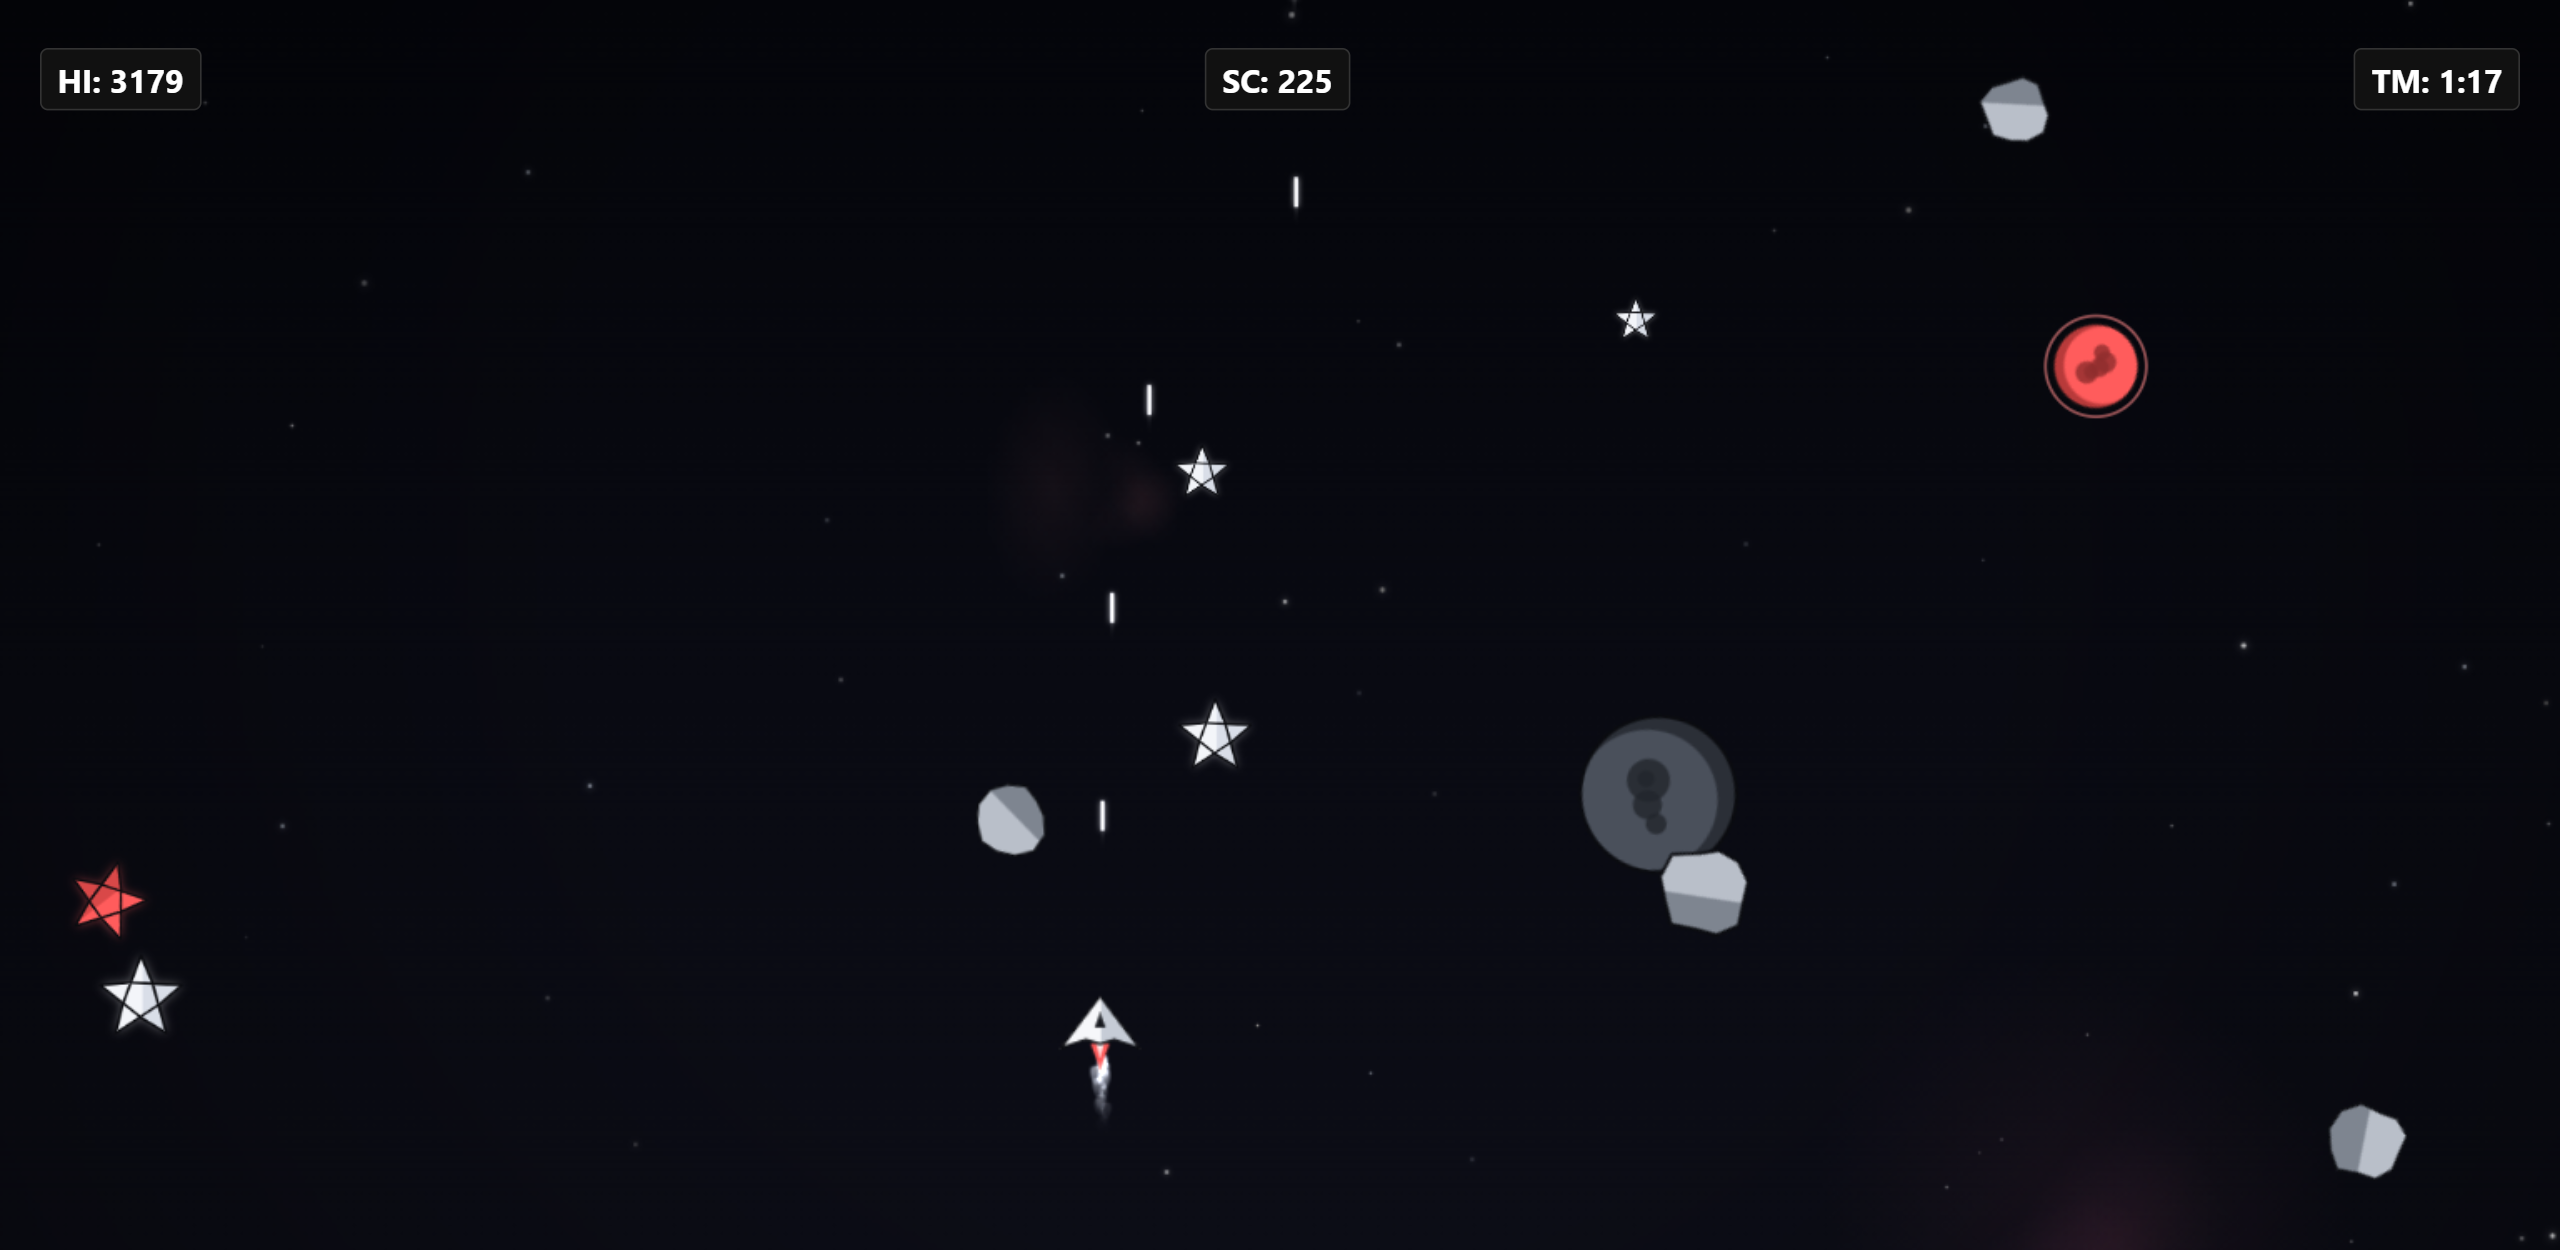
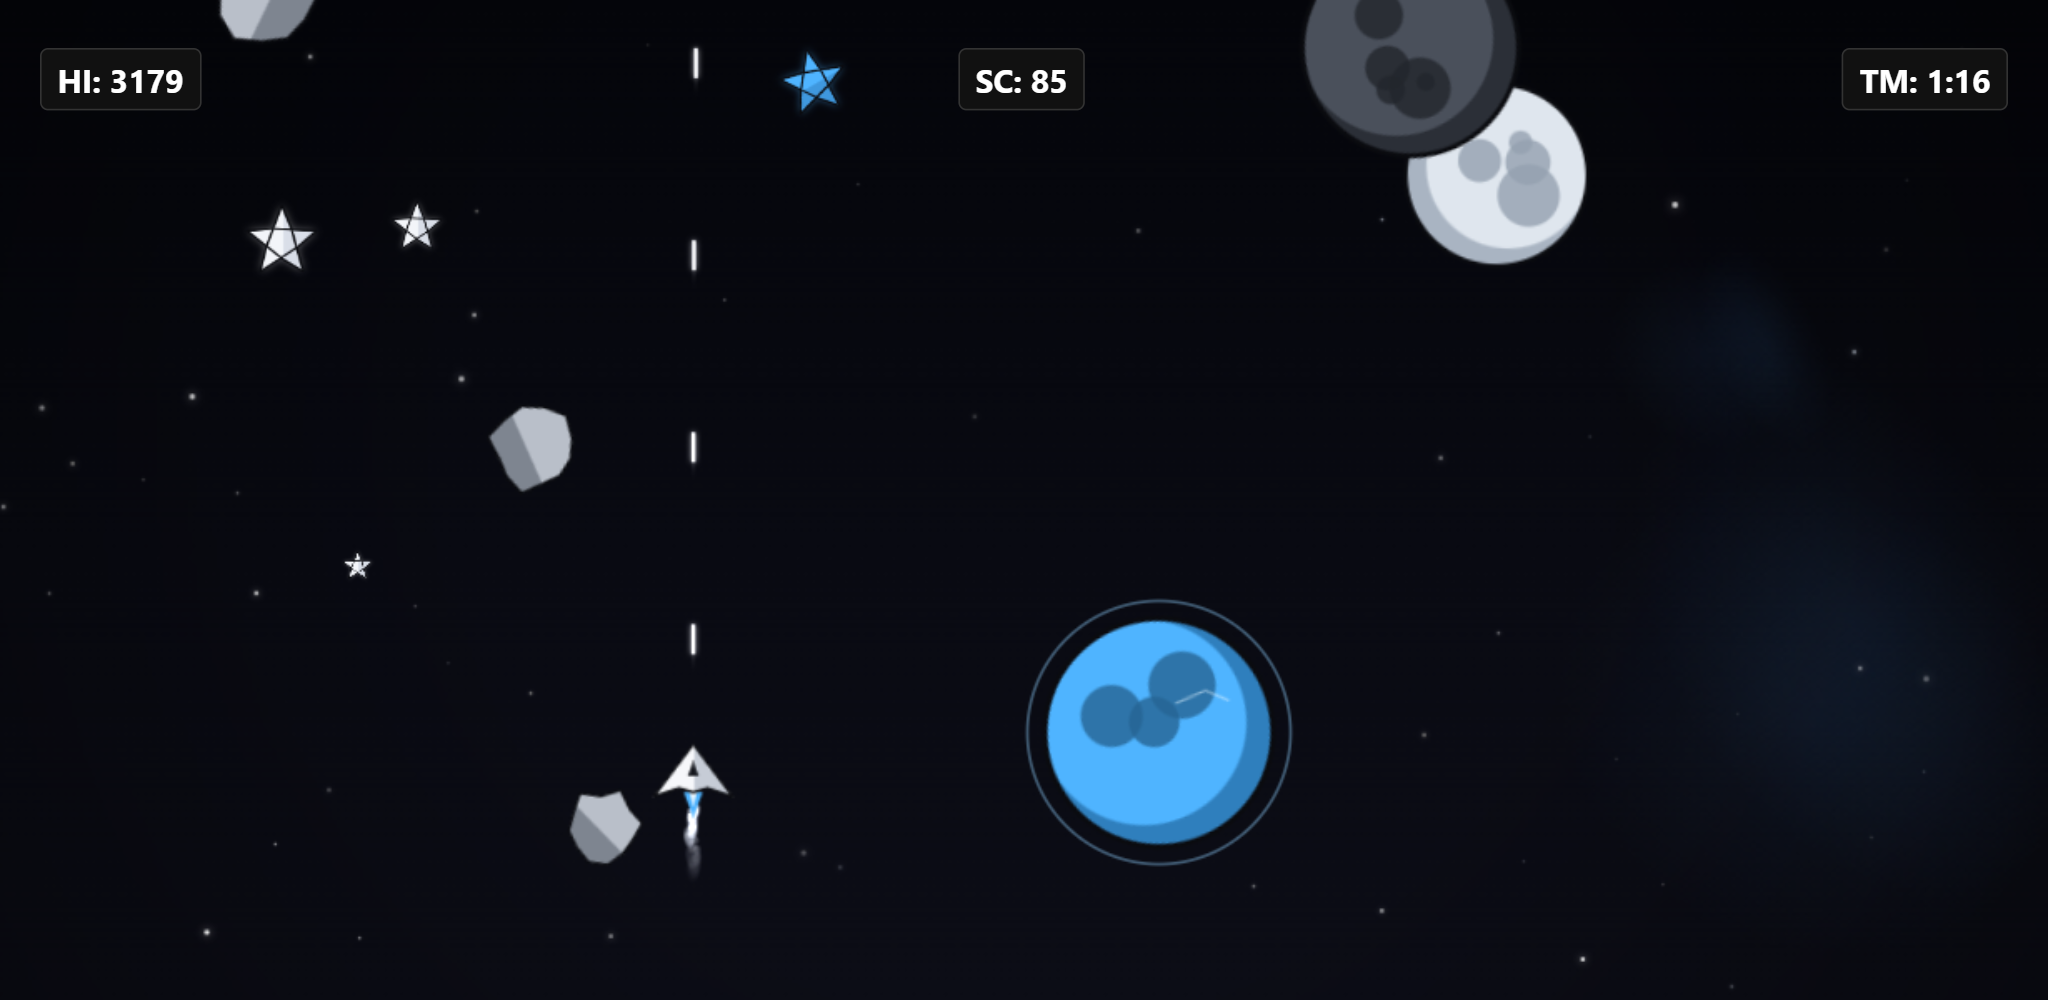
build: record an autopilot run as MP4 for the store listing
record-autoplay.cjs drives the DevTools screencast through the title, run,
debrief and leaderboard and encodes a constant-frame-rate H.264 file with a
pinned, checksum-verified ffmpeg build fetched into .tools/. screenshot.cjs now
exposes connect() for tools that need protocol events, and the game gains an
autodelay flag so recordings can hold the title screen until the high score
has loaded.

Generated with [Devin](https://devin.ai)

diff --git a/js/ui/DevTools.js b/js/ui/DevTools.js
@@ -18,6 +18,8 @@ import { PerfOverlay } from "./PerfOverlay.js";
  *  - `debug=perf` → PerfOverlay HUD + console session summary at game over.
  *  - `autoplay=1` → Autopilot drives input and auto-starts the game (pair with `?seed=` for
  *    reproducible before/after profiles).
+ *  - `autodelay=MS` → title-screen hold before the auto-start (default 800ms; recordings use a
+ *    longer hold so the remote high score has loaded and the title reads).
  *  - `dpr=N` → raises the render DPR ceiling to N (0 < N <= 8) for high-density screenshots
  *    (store listings); applied immediately via `game.resizeCanvas()`.
  *
@@ -52,6 +54,8 @@ export function attachDevTools(game, search) {
 
   const overlay = wantOverlay ? new PerfOverlay(game) : null;
   const autopilot = wantAutopilot ? new Autopilot() : null;
+  const autoDelay = Number(params.get("autodelay"));
+  const defaultDelayMs = Number.isFinite(autoDelay) && autoDelay >= 0 ? autoDelay : 800;
   return {
     overlay,
     autopilot,
@@ -64,7 +68,7 @@ export function attachDevTools(game, search) {
     onGameOver() {
       if (overlay) overlay.logSummary();
     },
-    autoStart(delayMs = 800) {
+    autoStart(delayMs = defaultDelayMs) {
       if (!autopilot || typeof setTimeout !== "function") return;
       setTimeout(() => {
         try {

diff --git a/tests/devTools.test.js b/tests/devTools.test.js
@@ -63,6 +63,24 @@ describe("attachDevTools", () => {
     }
   });
 
+  it("honours autodelay for the default auto-start hold", () => {
+    vi.useFakeTimers();
+    try {
+      const game = makeGame();
+      attachDevTools(game, "?autoplay=1&autodelay=3000")?.autoStart();
+      vi.advanceTimersByTime(2999);
+      expect(game.startGame).not.toHaveBeenCalled();
+      vi.advanceTimersByTime(1);
+      expect(game.startGame).toHaveBeenCalledTimes(1);
+      const plain = makeGame();
+      attachDevTools(plain, "?autoplay=1&autodelay=nope")?.autoStart();
+      vi.advanceTimersByTime(800);
+      expect(plain.startGame).toHaveBeenCalledTimes(1);
+    } finally {
+      vi.useRealTimers();
+    }
+  });
+
   it("forwards metrics to the overlay and drives input via the autopilot", () => {
     const game = makeGame();
     game.state = { isRunning: () => true };
